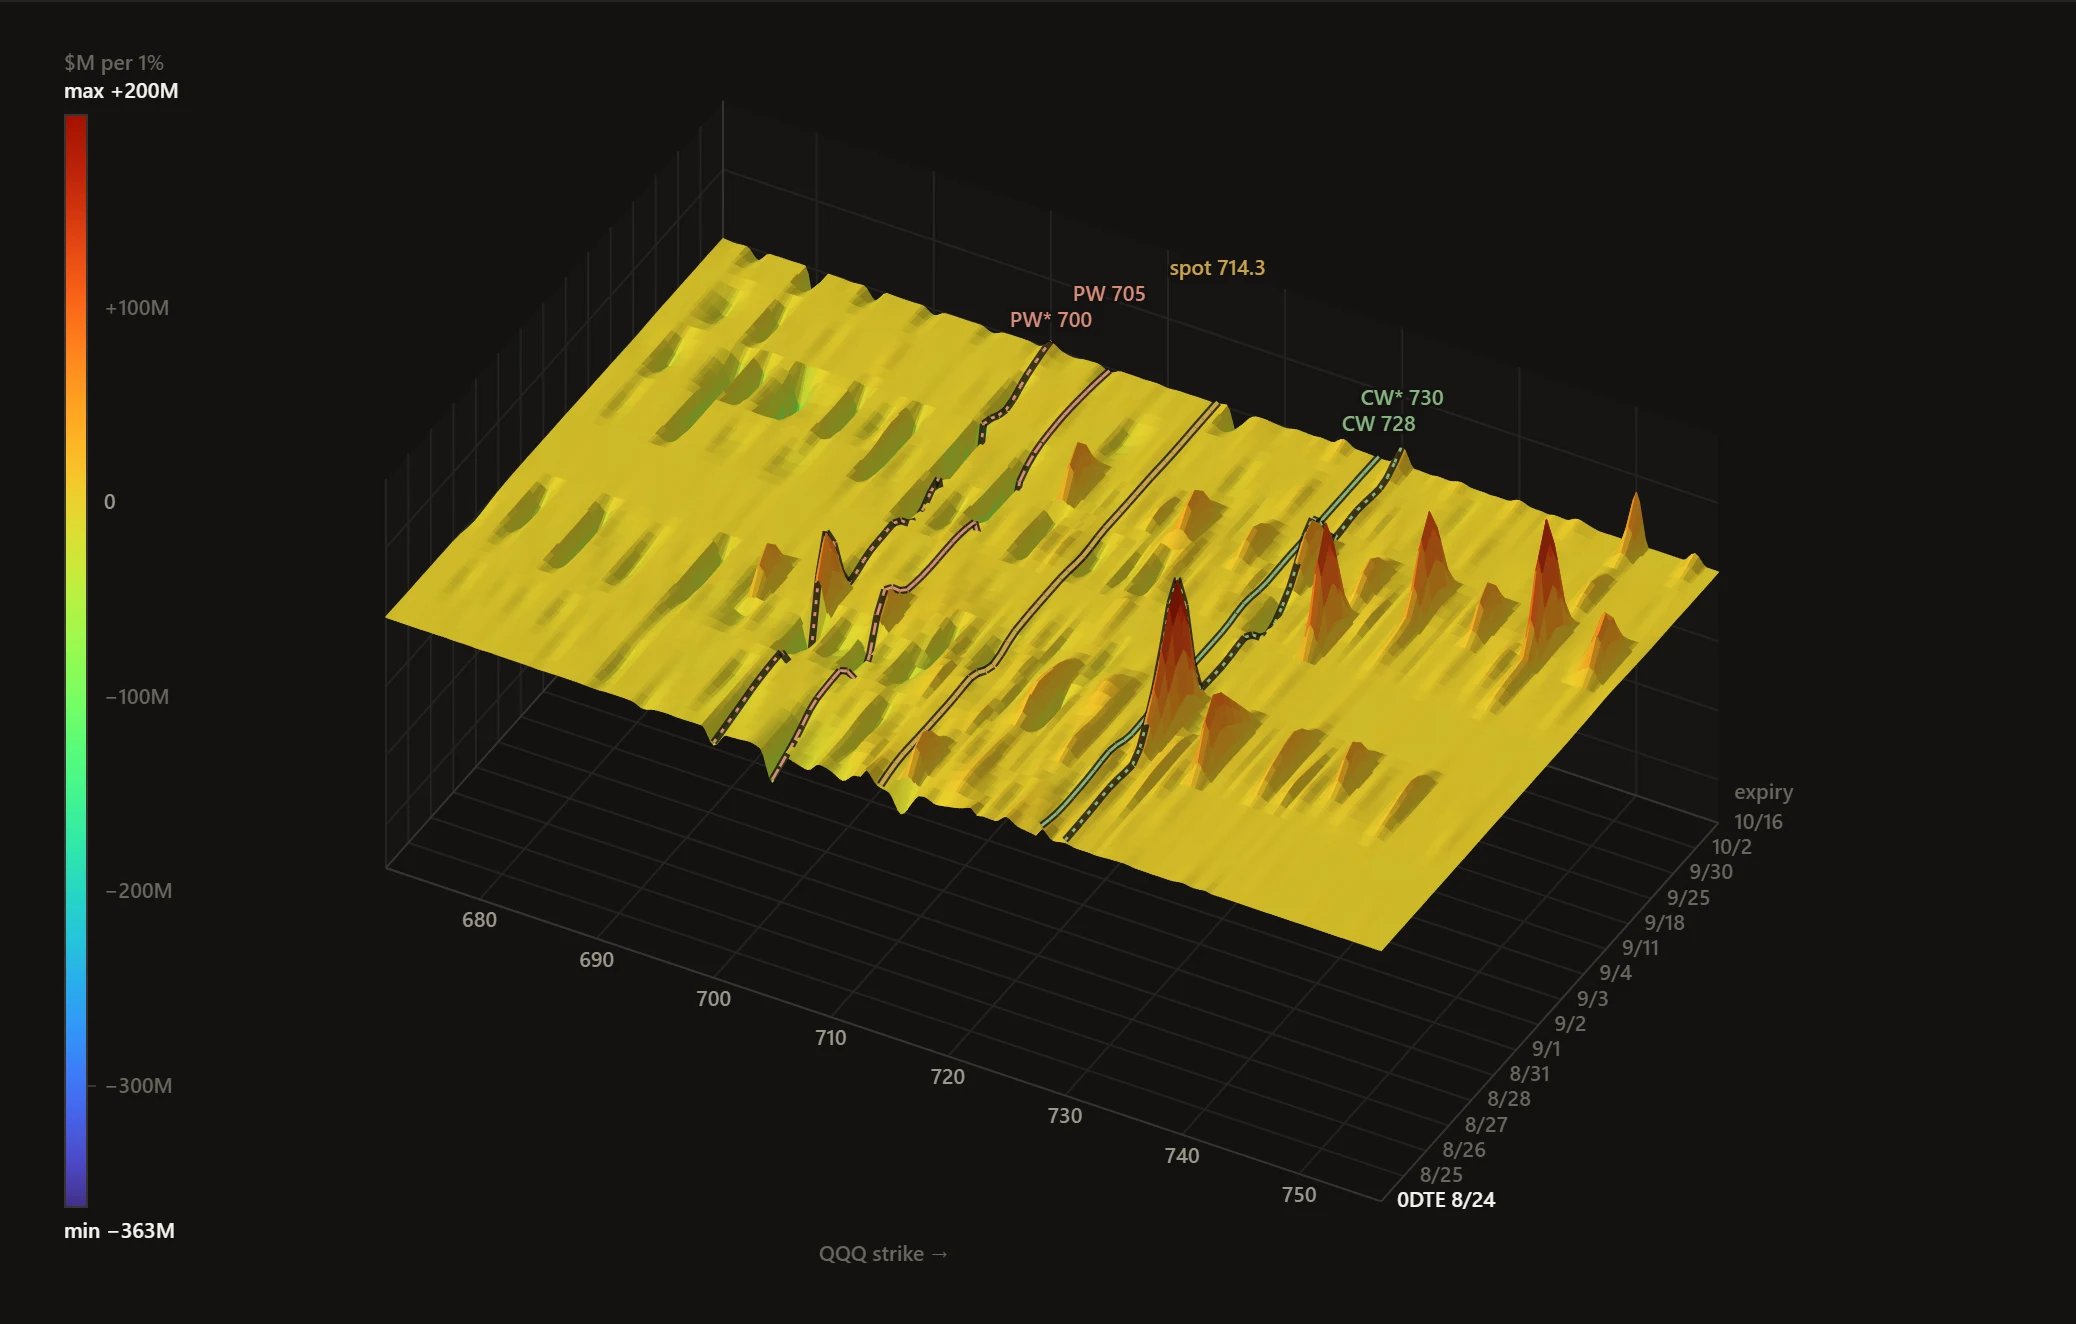
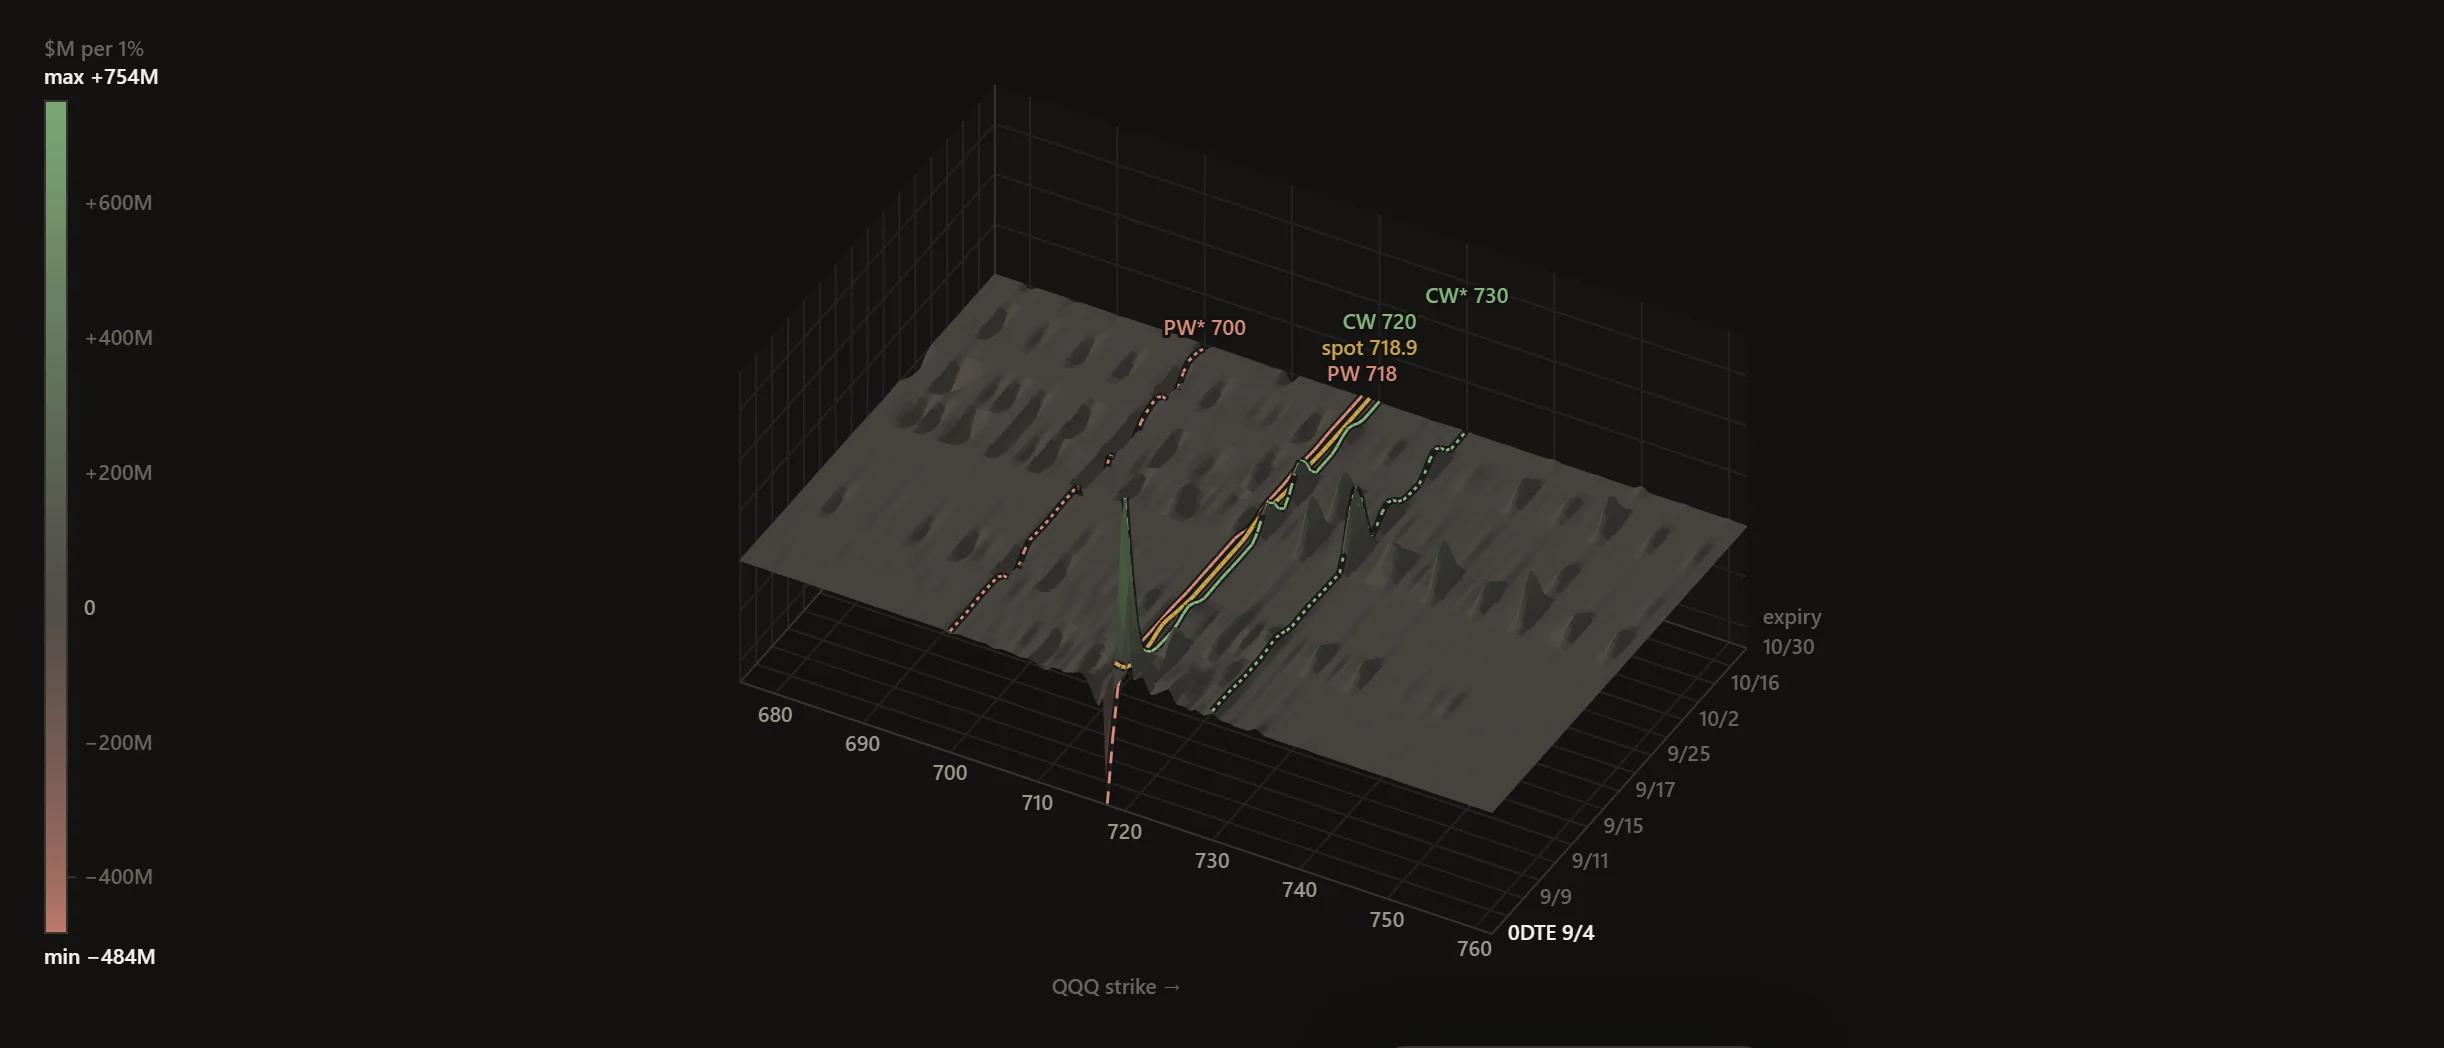
Landing: say what Echelon is, show the live counts, refresh the GEX image
Under the definition the hero now states it plainly: d1's NQ room in one
app, the training, the daily read, the gamma board, the news, a journal
and the members. The fine line carries the live member count (56) and
the Discord count (277) next to lifetime access. The gamma surface image
is re-captured from the app in its current zero-anchored colours (the
old one was the retired rainbow map).

diff --git a/index.html b/index.html
@@ -174,7 +174,9 @@
     .hero .def i { color: var(--gold); margin: 0 7px 0 3px; }
     .hero .sub { margin: 16px auto 0; max-width: 46ch; color: var(--muted); font-size: clamp(14.5px, 1.4vw, 16.5px); text-wrap: pretty; }
     .hero .act { margin-top: 28px; display: flex; align-items: center; justify-content: center; gap: 22px; flex-wrap: wrap; }
+    .hero .what { max-width: 560px; margin: 18px auto 0; font-size: 15px; line-height: 1.6; color: var(--muted); }
     .hero .fine { margin-top: 16px; font-size: 12.5px; color: var(--faint); }
+    .hero .fine span { white-space: nowrap; }
 
 
     /* panel grammar: used by the member-reviews grid */
@@ -411,11 +413,12 @@
     <div class="hero"><div class="col">
       <h1>Trade with <em>clarity.</em></h1>
       <p class="def"><b>clarity</b> the quality of being clear and easy to understand; the state of seeing what the market is actually doing, not what you hope it will do.</p>
+      <p class="what">Echelon is d1's NQ room in one app: the training, the daily read, the gamma board, the news, a journal, and the members who trade it every session.</p>
       <div class="act">
         <button class="btn gshift" data-buy type="button">Get Echelon</button>
         <a class="quiet" href="/echelon/app/">Members sign in</a>
       </div>
-      <p class="fine">lifetime access · no subscription</p>
+      <p class="fine">lifetime access · no subscription · <span data-echelon-count>members</span> inside · <span data-discord-count>members in the Discord</span></p>
     </div></div>
 
     <div class="trades-wrap" id="trades" hidden><div class="col">
@@ -496,7 +499,7 @@
           <span class="label">D1 GEX</span>
           <span class="gb-go">See it live &rarr;</span>
         </div>
-        <img class="gb-surface" src="/echelon/assets/gex-surface-past.webp" alt="A past session's gamma surface: dealer positioning by strike and expiry, walls traced" loading="lazy" width="2076" height="1324">
+        <img class="gb-surface" src="/echelon/assets/gex-surface-past.webp" alt="A past session's gamma surface: dealer positioning by strike and expiry, walls traced" loading="lazy" width="2444" height="1048">
         <p class="gb-line">One past session, straight from the board: dealer gamma by strike and expiry, the walls traced, mapped onto NQ. Rebuilt every 15 minutes through the trading day.</p>
       </a>
       <a class="btbar" href="https://www.backtrader.io/" target="_blank" rel="noopener">
